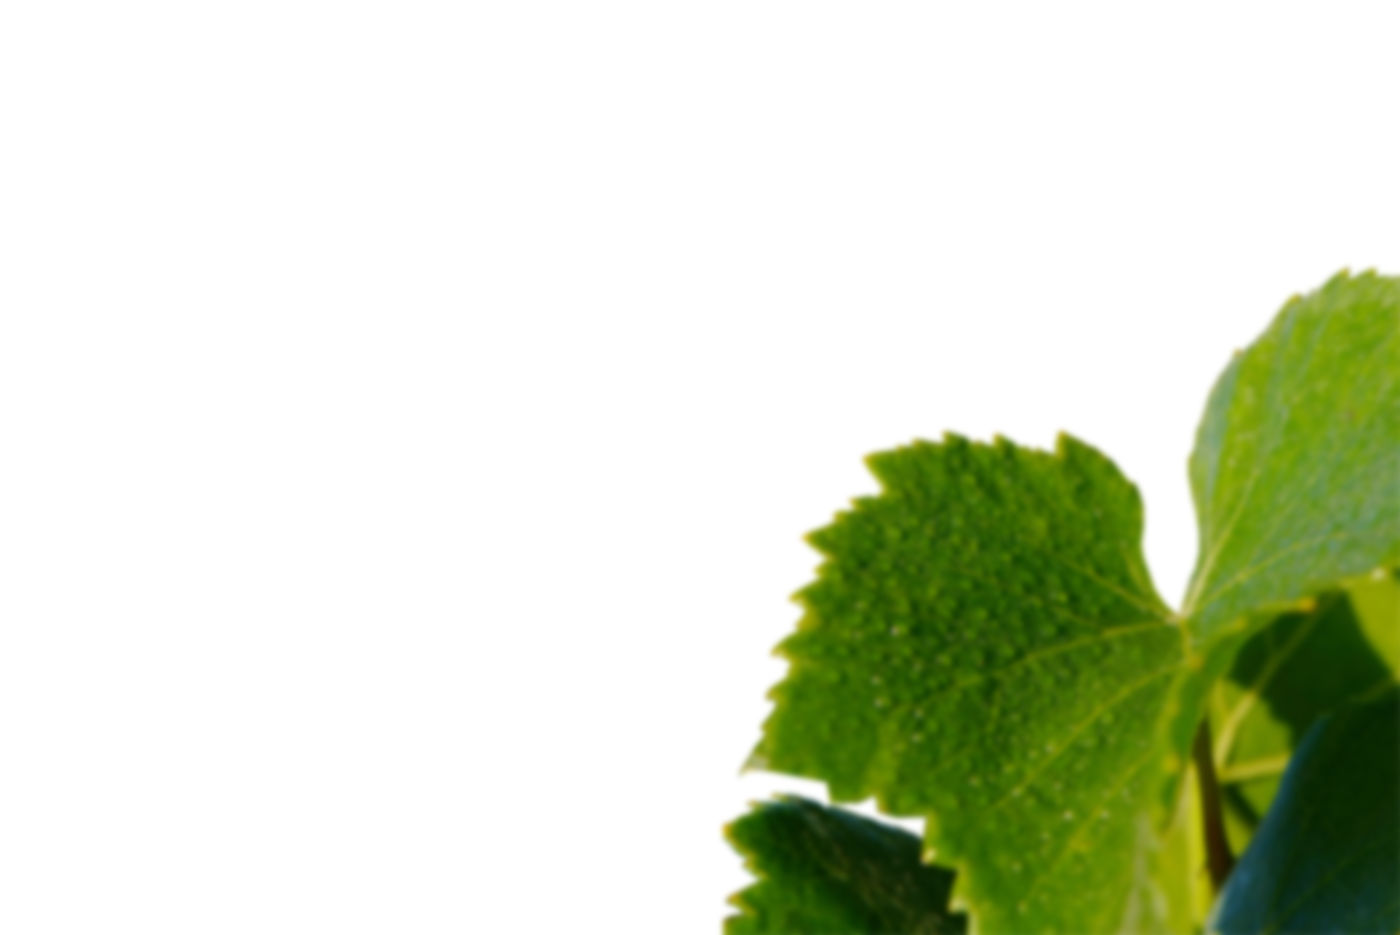
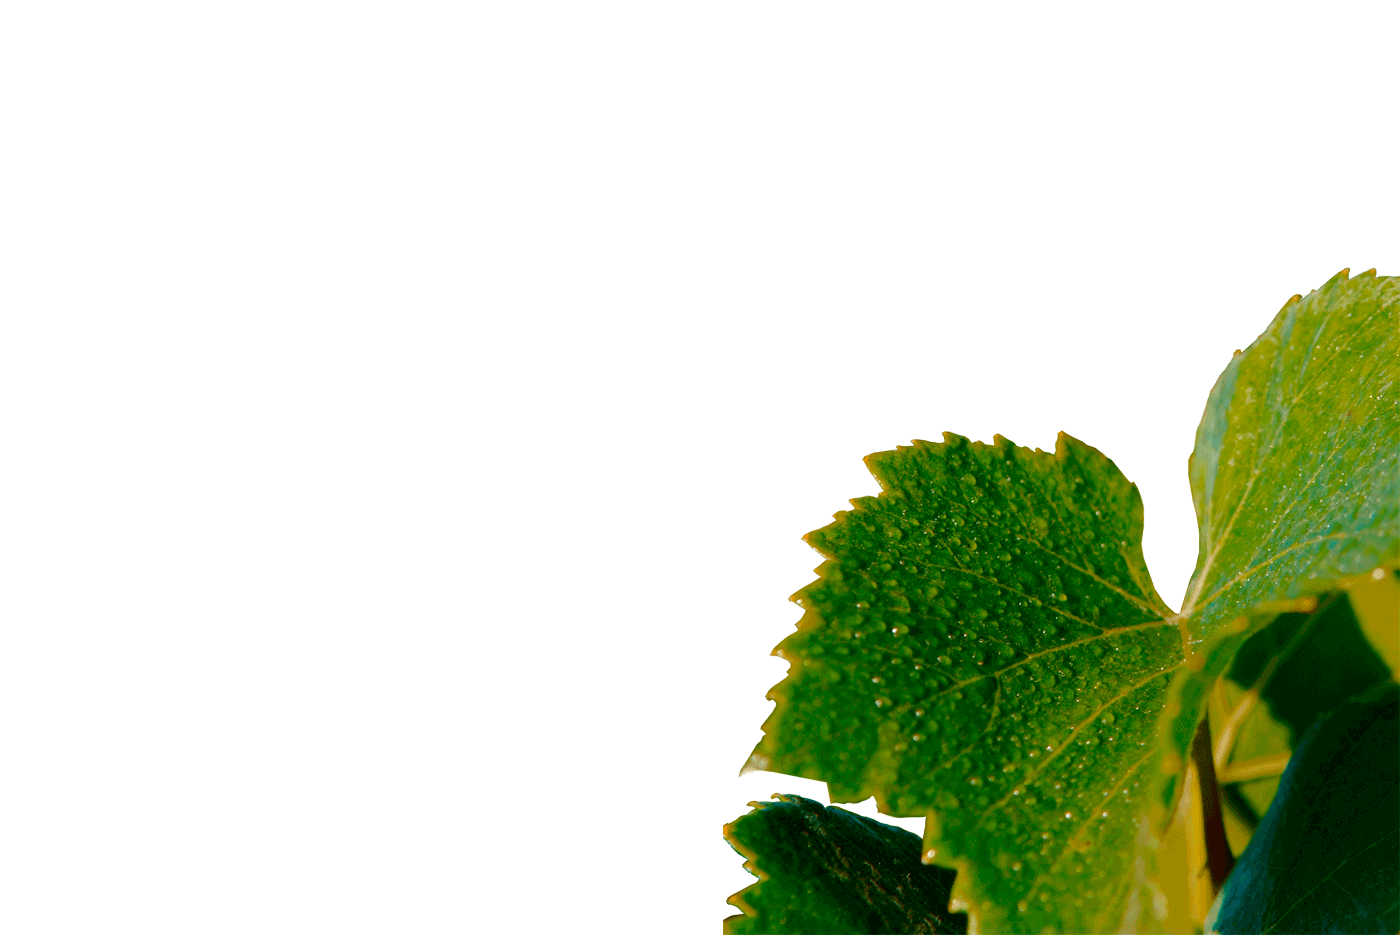
parallax scroll and new images added

Changed region(s): [[0.4914, 0.2791, 1.0, 1.0]]

diff --git a/js/scripts.js b/js/scripts.js
@@ -5,6 +5,8 @@ var windoScrollUp;
 var windoScrollDown;
 var inHome;
 var awardsSlidesNmbr;
+var scene1;
+var scene2;
 var scrollmagicHeight;
 var nubeInit;
 var nubeEnd;
@@ -115,8 +117,8 @@ function scrollTo(dest, fromNav) {
 	}
 
 	if(fromNav == 'firstLook') {
-		$('html, body').animate({ scrollTop: scrollDistance }, 3000, function() {
-			flag = true;
+		$('html, body').animate({ scrollTop: scrollDistance }, 2000, function() {
+			introAnimationFlag = true;
 		});
 		return;
 	}
@@ -134,6 +136,24 @@ $.fn.scrollEnd = function(callback, timeout) {
     $this.data('scrollTimeout', setTimeout(callback,timeout));
   });
 };
+
+function killParallax() {
+	scene1.destroy();
+	scene2.destroy();
+	scene1 = null;
+	scene2 = null;
+	controller = null;
+	tween = null;
+
+
+	setTimeout(function(){
+		$('.black-wall').fadeOut(250, function() { $(this).remove(); });
+		$('.intro-parallax').remove();
+		window.scroll(0, 0);
+		AOS.init();
+		introAnimationFlag = false;
+	}, 500);
+}
 
 function init() {
 
@@ -188,10 +208,10 @@ function init() {
 		arbolEnd = windowHeight * (-.6);
 		parrasInit = windowHeight * .3;
 		parrasEnd = windowHeight * (-1);
-		hojaInit = windowHeight * 1.5;
-		hojaEnd = windowHeight * (-1.1);
+		hojaInit = windowHeight * 1.2;
+		hojaEnd = windowHeight * (-.6);
 		tierraInit = windowHeight * 3;
-		tierraEnd = windowHeight * (-.5);
+		tierraEnd = windowHeight * (-.1);
 
 		var controller = new ScrollMagic.Controller();
 
@@ -221,7 +241,7 @@ function init() {
 
 		]);
 
-		var scene1 = new ScrollMagic.Scene({
+		scene1 = new ScrollMagic.Scene({
 			triggerElement: "#trigger-start",
 			triggerHook: "onLeave",
 			duration: '600%',
@@ -240,18 +260,16 @@ function init() {
 				{opacity: 1 }),
 		]);
 
-		var scene2 = new ScrollMagic.Scene({
+		scene2 = new ScrollMagic.Scene({
 			triggerElement: "#trigger-ending",
 			triggerHook: "onLeave",
-			duration: '75%',
-			offset: (windowHeight * 4.4) })
+			duration: '80%',
+			offset: (windowHeight * 5.5) })
 		.setTween(endingTween)
 		// .addIndicators({name: "2"})
 		.addTo(controller)
 		.on("end", function (event) {
-			setTimeout(function(){
-				$('.black-wall').fadeOut(500, function() { $(this).remove(); });
-			}, 1000);
+			killParallax();
 		});
 	}
 
@@ -280,7 +298,9 @@ $(window).resize(function() {
 
 // events at scroll
 var lastScrollTop = 0;
-scrollmagicHeight = $('#about').offset().top;
+if( inHome ) {
+	scrollmagicHeight = $('#about').offset().top;
+}
 
 $(window).scroll( function() {
 
@@ -316,14 +336,20 @@ $(window).scroll( function() {
 	}
 	lastScrollTop = windoScrollTop;
 
+    if ( windoScrollTop > 50 ){
+    	$('#startDown').removeClass('visible');
+    } else {
+    	$('#startDown').addClass('visible');
+    }
+
 });
 
-var flag = true;
+var introAnimationFlag = true;
 
 $(window).scrollEnd(function(){
-    if( windoScrollDown && inHome && flag && windoScrollTop < scrollmagicHeight ){
+    if( windoScrollDown && inHome && introAnimationFlag && windoScrollTop < windowHeight ){
     	scrollTo( '#about', 'firstLook' );
-    	flag = false;
+    	introAnimationFlag = false;
     }
 }, 100);
 
@@ -363,7 +389,7 @@ $("#down").click( function(){scrollTo( '.intro + div', false )} );
 
 $("#startDown").click( function(){
 	scrollTo( '#about', 'firstLook' );
-	flag = false;
+	introAnimationFlag = false;
 } );
 
 /**

diff --git a/css/style.css b/css/style.css
@@ -572,7 +572,7 @@ hr {
 }
 
 .isDesktop #nube {
-	background-image: url(../img/parallax/nube1.png);
+	background-image: url(../img/parallax/nube.jpg);
 }
 
 .isDesktop #montana {
@@ -588,11 +588,11 @@ hr {
 }
 
 .isDesktop #tierra {
-	background-image: url(../img/parallax/tierra-blur.png);
+	background-image: url(../img/parallax/tierra.png);
 }
 
 .isDesktop #hoja {
-	background-image: url(../img/parallax/hoja-blur.png);
+	background-image: url(../img/parallax/hoja.png);
 }
 
 .isDesktop #ending {
@@ -602,6 +602,8 @@ hr {
 }
 
 .isDesktop #startDown {
+	opacity: 0;
+	transition: .1s ease;
 	display: block;
 	position: absolute;
 	width: 40px;
@@ -610,6 +612,25 @@ hr {
     left: 50%;
     margin-left: -20px;
     z-index: 100;
+}
+
+.isDesktop #startDown.visible {
+	opacity: 1;
+}
+
+.isDesktop #startDown span {
+	color: #fff;
+	text-transform: uppercase;
+	width: 100px;
+    display: block;
+    position: absolute;
+    top: -13px;
+    left: 50%;
+    margin-left: -50px;
+    text-shadow: 0 0 2px #000;
+    text-align: center;
+    font-size: 12px;
+    font-family: 'Cinzel', serif;
 }
 
 /**

diff --git a/front-page.php b/front-page.php
@@ -1,17 +1,19 @@
 <?php get_header(); ?>
 
-<div id="trigger-start"></div>
-<div id="trigger-ending"></div>
-<button class="arrow arrow-down-white" id="startDown"></button>
+<div class="intro-parallax">
+  <div id="trigger-start"></div>
+  <div id="trigger-ending"></div>
+  <button class="arrow arrow-down-white visible" id="startDown"><span>Discover us</span></button>
 
-<div id="home-start">
-  <div class="start" id="nube"></div>
-  <!-- <div class="start" id="montana"></div> -->
-  <div class="start" id="arbol"></div>
-  <div class="start" id="parras"></div>
-  <div class="start" id="hoja"></div>
-  <div class="start" id="tierra"></div>
-  <div class="start" id="ending"></div>
+  <div id="home-start">
+    <div class="start" id="nube"></div>
+    <!-- <div class="start" id="montana"></div> -->
+    <div class="start" id="arbol"></div>
+    <div class="start" id="parras"></div>
+    <div class="start" id="hoja"></div>
+    <div class="start" id="tierra"></div>
+    <div class="start" id="ending"></div>
+  </div>
 </div>
 
 <article id="about">
